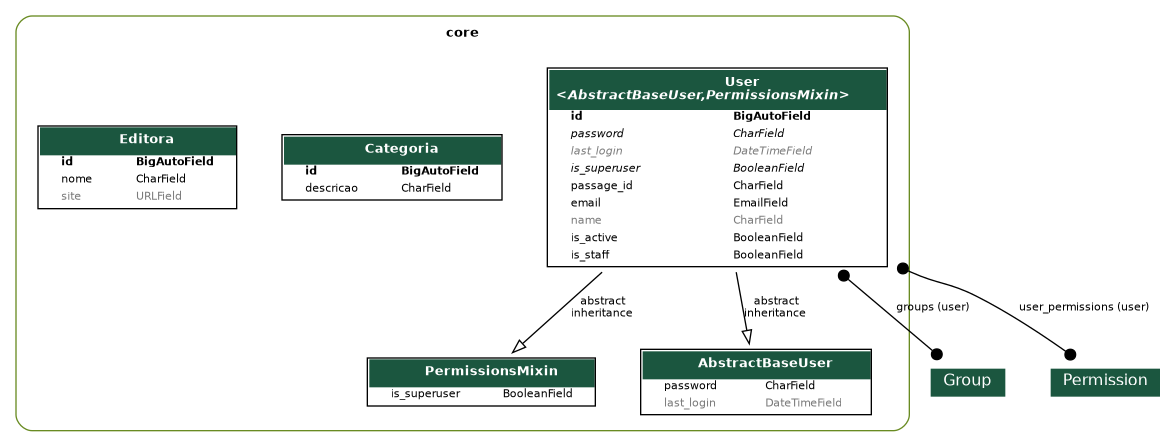
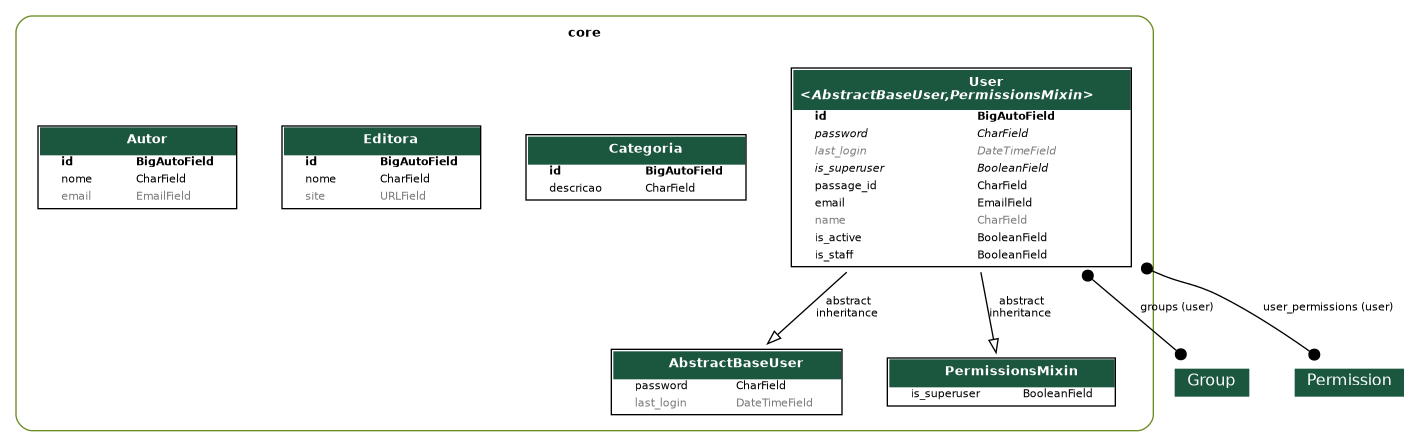
FEAT: Criação da api de autor

diff --git a/core/migrations/0007_autor.py b/core/migrations/0007_autor.py
@@ -1,0 +1,21 @@
+# Generated by Django 5.1.7 on 2025-05-28 18:47
+
+from django.db import migrations, models
+
+
+class Migration(migrations.Migration):
+
+    dependencies = [
+        ('core', '0006_editora'),
+    ]
+
+    operations = [
+        migrations.CreateModel(
+            name='Autor',
+            fields=[
+                ('id', models.BigAutoField(auto_created=True, primary_key=True, serialize=False, verbose_name='ID')),
+                ('nome', models.CharField(max_length=100)),
+                ('email', models.EmailField(blank=True, max_length=254, null=True)),
+            ],
+        ),
+    ]

diff --git a/app/urls.py b/app/urls.py
@@ -8,13 +8,14 @@ from drf_spectacular.views import (
 from rest_framework.routers import DefaultRouter
 
 
-from core.views import UserViewSet, CategoriaViewSet, EditoraViewSet
+from core.views import UserViewSet, CategoriaViewSet, EditoraViewSet, AutorViewSet
 
 router = DefaultRouter()
 
 router.register(r'usuarios', UserViewSet, basename='usuarios')
 router.register(r"categorias", CategoriaViewSet) 
 router.register(r"editoras", EditoraViewSet)
+router.register(r"autores", AutorViewSet)
 
 urlpatterns = [
     path('admin/', admin.site.urls),

diff --git a/scripts/cria_api.py b/scripts/cria_api.py
@@ -11,15 +11,6 @@ def create_files(entidade):
             core/models/{entidade}.py \
             core/serializers/{entidade}.py \
             core/views/{entidade}.py',
-        f'code \
-            core/models/{entidade}.py \
-            core/models/__init__.py \
-            core/admin.py \
-            core/serializers/{entidade}.py \
-            core/serializers/__init__.py \
-            core/views/{entidade}.py \
-            core/views/__init__.py \
-            app/urls.py',
     ]
 
     # Executa cada comando

diff --git a/core/views/autor.py b/core/views/autor.py
@@ -1,0 +1,8 @@
+from rest_framework.viewsets import ModelViewSet
+
+from core.models import Autor
+from core.serializers import AutorSerializer
+
+class AutorViewSet(ModelViewSet):
+    queryset = Autor.objects.all()
+    serializer_class = AutorSerializer

diff --git a/core/models/autor.py b/core/models/autor.py
@@ -1,0 +1,8 @@
+from django.db import models
+
+class Autor(models.Model):
+    nome = models.CharField(max_length=100)
+    email = models.EmailField(max_length=254, blank=True, null=True)
+
+    def __str__(self):
+        return self.nome

diff --git a/core/serializers/autor.py b/core/serializers/autor.py
@@ -1,0 +1,8 @@
+from rest_framework.serializers import ModelSerializer
+
+from core.models import Autor
+
+class AutorSerializer(ModelSerializer):
+    class Meta:
+        model = Autor
+        fields = "__all__"

diff --git a/core/serializers/__init__.py b/core/serializers/__init__.py
@@ -1,3 +1,4 @@
 from .user import UserSerializer
 from .categoria import CategoriaSerializer
 from .editora import EditoraSerializer
+from .autor import AutorSerializer

diff --git a/core/views/__init__.py b/core/views/__init__.py
@@ -1,3 +1,4 @@
 from .user import UserViewSet
 from .categoria import CategoriaViewSet
 from .editora import EditoraViewSet
+from .autor import AutorViewSet

diff --git a/core/models/__init__.py b/core/models/__init__.py
@@ -1,3 +1,4 @@
 from .user import User
 from .categoria import Categoria
 from .editora import Editora
+from .autor import Autor
